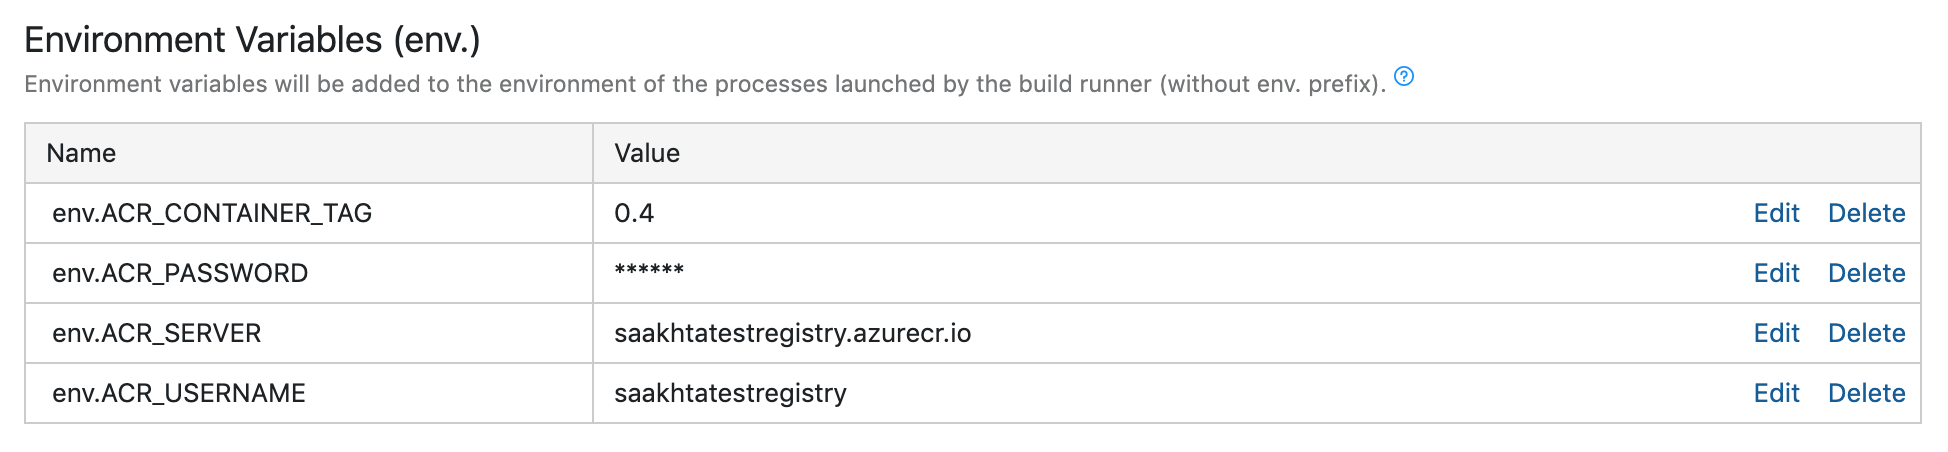
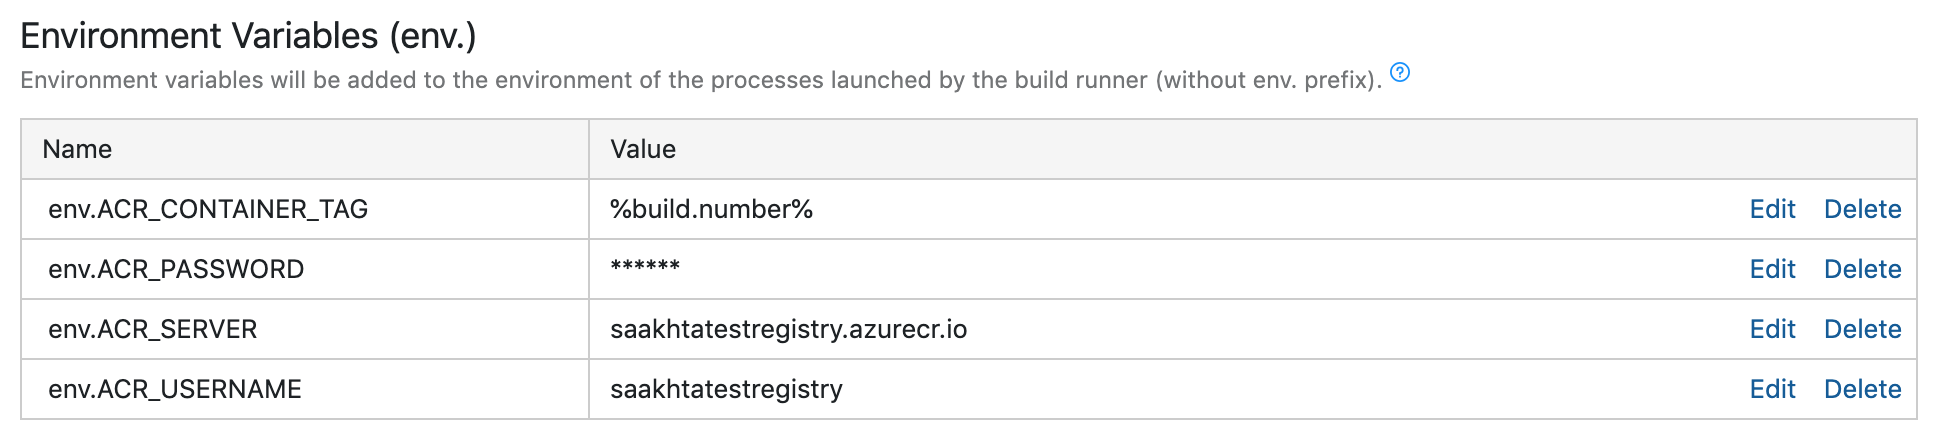
Minor updates to documentation

diff --git a/gitops/teamcity/ImageTagRelease.md b/gitops/teamcity/ImageTagRelease.md
@@ -69,8 +69,8 @@ Click on `TeamCity` > `Create`
     ![](./images/parameters_find.png)
 
 17. Add the following parameters to the environment variables section:
-    - `env.ACR_CONTAINER_TAG`: This should be set to the tag for the ACR image, such as 0.1
-    - `env.ACR_PASSWORD`: The password for the container registry. Set this to the passwors spec for security purposes.
+    - `env.ACR_CONTAINER_TAG`: This is just an incremental tag for the container image; for our purposes we're using the build number so it's always unique and incremental. 
+    - `env.ACR_PASSWORD`: The password for the container registry. Set this to the password spec for security purposes.
     - `env.ACR_SERVER`: URL for the ACR server, for example we are using `saakhtatestregistry.azurecr.io`
     - `env.ACR_USERNAME`: The username for the container registry
 

diff --git a/gitops/README.md b/gitops/README.md
@@ -30,6 +30,8 @@ Learning about how we think about designing GitOps Pipelines:
 We provide instructions and automation for deploying a GitOps CI/CD pipeline for the following platforms:
 
 * [Azure Devops](./azure-devops)
+* [Octopus Deploy](./octopus)
+* [TeamCity](./teamcity)
 
 Pull requests would be gratefully accepted for other CI/CD platforms.
 
